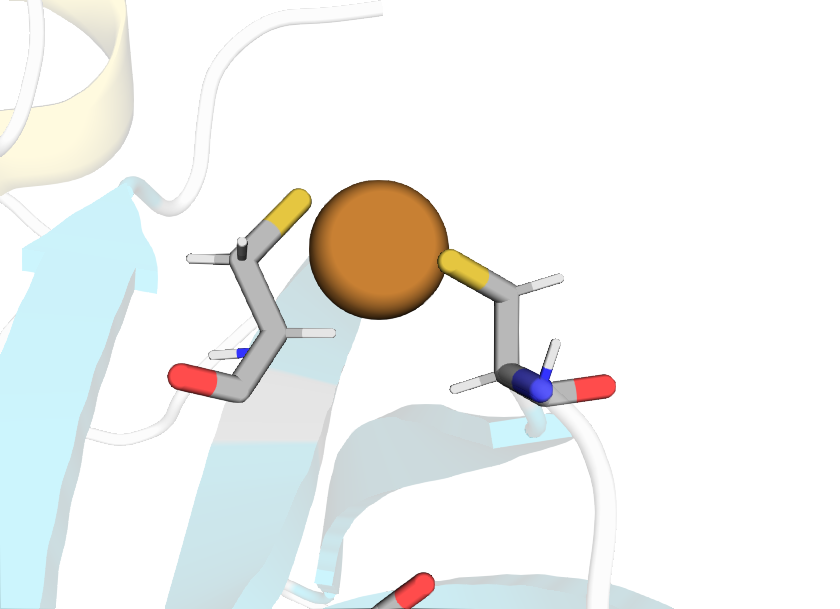
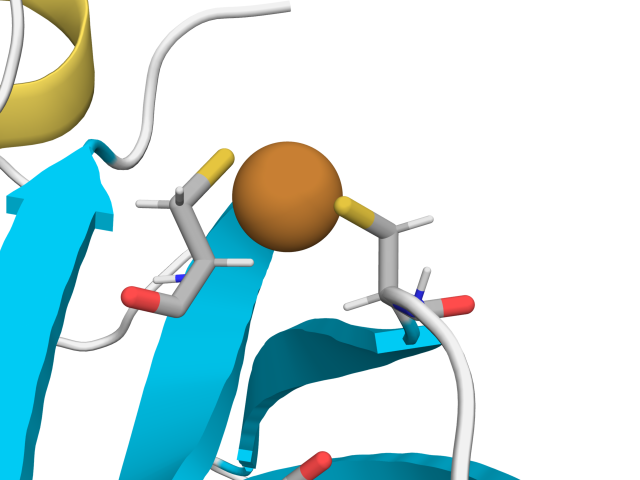
Re-render cys figures

Changed region(s): [[0.0, 0.0, 0.8125, 1.0]]

diff --git a/study/figures/h-background/h008-cys-aligned/h008.py b/study/figures/h-background/h008-cys-aligned/h008.py
@@ -1,5 +1,9 @@
+import os
+
 import pymol
 from pymol import cmd, util
+
+os.chdir(os.path.abspath(os.path.dirname(__file__)))
 
 # https://pymol.org/dokuwiki/doku.php?id=api:cmd:alpha
 
@@ -25,34 +29,19 @@ def hex_to_rgb(hex_color):
     # Normalize the RGB values to 0-1 range (PyMOL RGB format)
     return (r, g, b)
 
-
 # Start PyMOL session
 pymol.finish_launching()
 
 # Setup colors
 cmd.bg_color("white")
 
+SAVE_PNG = True
+
 # Load files
-cmd.load(
-    "../../../analysis/005-rogfp-glh-md/data/traj/frame_89526.pdb",
-    "reduced",
-    format="pdb",
-)
+cmd.load("../../../analysis/005-rogfp-glh-md/data/traj/frame_89526.pdb", "reduced")
 cmd.load("../../../analysis/007-rogfp-oxd-glh-md/data/traj/frame_50564.pdb", "oxidized")
 cmd.load("../../../analysis/006-rogfp-cu-glh-md/data/traj/frame_100971.pdb", "cu")
 cmd.center("reduced")
-
-# Make selections
-cmd.select("cro", "resname cro")
-cmd.select(
-    "cys-sensor",
-    "resi 145 or resi 202",
-)
-cmd.select(
-    "cro-water",
-    "(model reduced and resi 3259) or (model oxidized and resi 1496) or (model cu and resi 313)",
-)
-cmd.deselect()
 
 # Remove unnecessary waters
 cmd.remove("(resname HOH or resname WAT)")
@@ -63,6 +52,25 @@ cmd.remove("element Cl")
 cmd.align("model oxidized", "model reduced")
 cmd.align("model cu", "model reduced")
 
+# Make selections
+cmd.deselect()
+cmd.select(
+    "cys-sensor-reduced",
+    "(resi 145 or resi 202) and model reduced",
+)
+cmd.create(name="cys-reduced", selection="cys-sensor-reduced")
+cmd.select(
+    "cys-sensor-oxidized",
+    "(resi 145 or resi 202) and model oxidized",
+)
+cmd.create(name="cys-oxidized", selection="cys-sensor-oxidized")
+cmd.select(
+    "cys-sensor-cu",
+    "(resi 145 or resi 202) and model cu",
+)
+cmd.create(name="cys-cu", selection="cys-sensor-cu")
+cmd.deselect()
+
 # Display settings
 util.performance(0)
 cmd.space("rgb")
@@ -70,21 +78,23 @@ cmd.set("ray_trace_fog", 0)
 cmd.set("depth_cue", 0)
 cmd.set("antialias", 4)
 cmd.set("hash_max", 300)
-cmd.set("ray_trace_mode", 1)
+cmd.set("ray_trace_mode", 0)
 cmd.set("opaque_background", 0)
 cmd.set("cartoon_discrete_colors", 0)
-cmd.set("direct", 1)
-cmd.set("ambient", 0)
+cmd.set("direct", 0.5)
+cmd.set("ambient", 0.25)
 cmd.set("specular", 0)
-cmd.set("light_count", 2)
+cmd.set("light_count", 4)
 cmd.set("ray_shadows", 0)
 
 # Styling
-cmd.show("sticks", "cys")
+cmd.show("sticks", "cys-reduced")
+cmd.show("sticks", "cys-oxidized")
+cmd.show("sticks", "cys-cu")
 cmd.show("sticks", "resname HOH")
 cmd.show("spheres", "element Cu")
 
-cmd.set("cartoon_transparency", 0.8)
+# cmd.set("cartoon_transparency", 0.8)
 
 cmd.set_color("cartoon-color", hex_to_rgb("#F2F2F2"))
 cmd.color("cartoon-color", "rep cartoon")
@@ -102,9 +112,9 @@ cmd.color("loop-color", "ss l and rep cartoon")
 cmd.set_color("carbon-color", hex_to_rgb("#B8B8B8"))
 cmd.color("carbon-color", "element C and rep sticks")
 
-util.cnc("cys-sensor")
-cmd.rebuild()
-cmd.refresh()
+util.cnc("cys-reduced")
+util.cnc("cys-oxidized")
+util.cnc("cys-cu")
 
 cmd.set_view(
     """
@@ -112,25 +122,30 @@ cmd.set_view(
 """
 )
 
+if SAVE_PNG:
+    # Pictures
+    png_path = "cys-sensor-reduced.png"
+    print(f"Rendering {png_path}")
+    cmd.disable("all")
+    cmd.enable("reduced")
+    cmd.enable("cys-reduced")
+    cmd.png(png_path, dpi=1000)
 
-# Pictures
-cmd.enable("reduced")
-cmd.disable("oxidized")
-cmd.disable("cu")
-cmd.png("cys-sensor-reduced.png", dpi=1000)
+    png_path = "cys-sensor-oxidized.png"
+    print(f"Rendering {png_path}")
+    cmd.disable("all")
+    cmd.enable("oxidized")
+    cmd.enable("cys-oxidized")
+    cmd.png(png_path, dpi=1000)
 
-cmd.disable("reduced")
-cmd.enable("oxidized")
-cmd.disable("cu")
-cmd.png("cys-sensor-oxidized.png", dpi=1000)
+    png_path = "cys-sensor-cu.png"
+    print(f"Rendering {png_path}")
+    cmd.disable("all")
+    cmd.enable("cu")
+    cmd.enable("cys-cu")
+    cmd.png(png_path, dpi=1000)
 
-cmd.disable("reduced")
-cmd.disable("oxidized")
-cmd.enable("cu")
-cmd.png("cys-sensor-cu.png", dpi=1000)
+    cmd.enable("reduced")
+    cmd.enable("oxidized")
+    cmd.enable("cu")
 
-cmd.enable("reduced")
-cmd.enable("oxidized")
-cmd.enable("cu")
-
-cmd.refresh()
